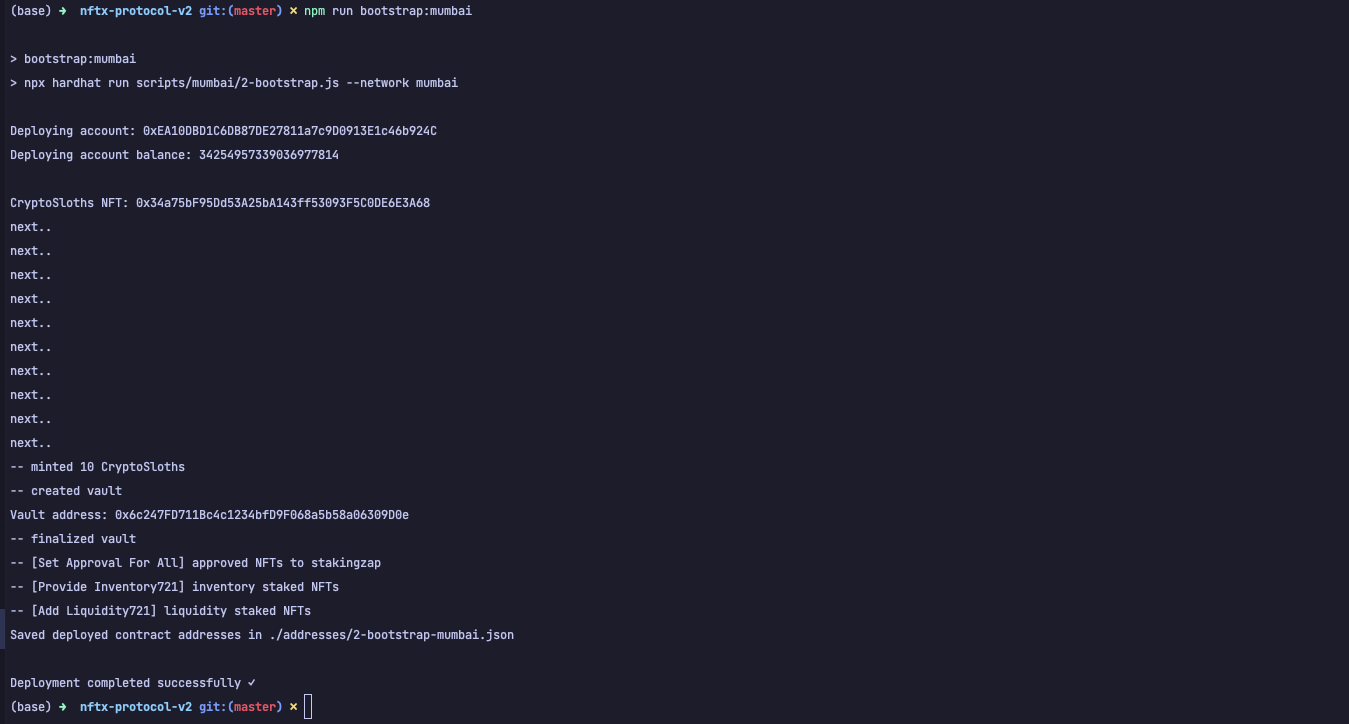
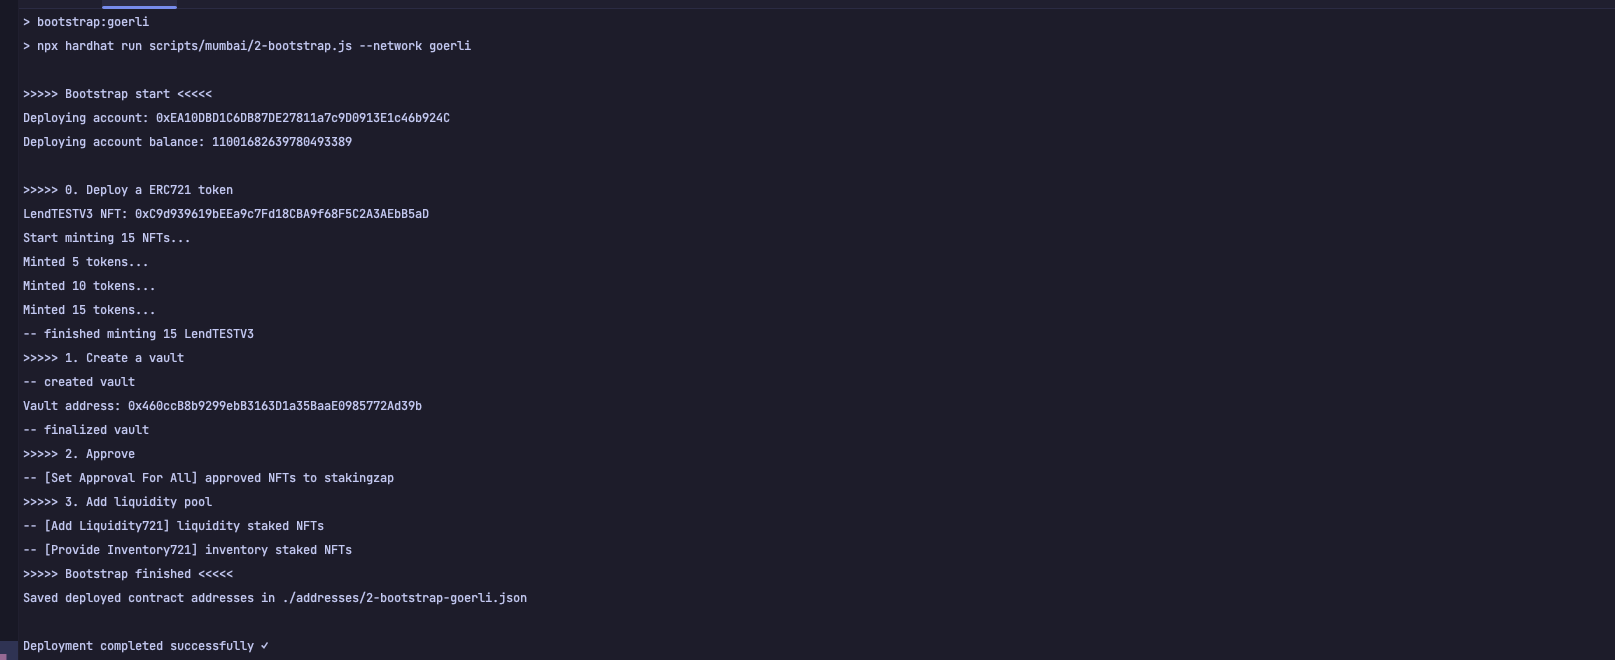
feat(project): restructure the project folders

Changed region(s): [[0.0, 0.2727, 0.3736, 1.0], [0.0, 0.0, 0.3736, 0.2424]]

diff --git a/scripts/bigto/2-bootstrap.js b/scripts/bigto/2-bootstrap.js
@@ -1,12 +1,12 @@
 'use strict'
 
-const { BigNumber } = require("@ethersproject/bignumber");
+const fs = require('fs')
+const keccak256 = require('keccak256')
 const { ethers, upgrades } = require("hardhat");
 const { utils } = ethers;
 const { formatEther, parseEther } = utils;
 
 const config = require("./config")
-const fs = require('fs')
 
 const NFTXVaultFactoryUpgradeableAddress = config.NFTXVaultFactoryUpgradeableAddress
 const NFTXStakingZapAddress = config.NFTXStakingZapAddress
@@ -14,40 +14,53 @@ const NFTXStakingZapAddress = config.NFTXStakingZapAddress
 const deployedContractMap = {}
 
 async function main() {
+  console.log(">>>>> Bootstrap start <<<<<")
   const [deployer] = await ethers.getSigners();
 
   const myAddress = await deployer.getAddress();
+  const network = ethers.getDefaultProvider.networks
 
   console.log("Deploying account:", myAddress);
   console.log("Deploying account balance:", (await deployer.getBalance()).toString(), "\n");
 
-  const vaultFactory = await ethers.getContractAt(
-    "NFTXVaultFactoryUpgradeable",
-      NFTXVaultFactoryUpgradeableAddress
-  );
-  const stakingZap = await ethers.getContractAt(
-      "NFTXStakingZap",
-      NFTXStakingZapAddress
-  );
+  // console.log(">>>>> (Optional) Swap some WETH")
+  // const depositMethodId = `0x${keccak256("deposit()").toString("hex").substring(0,8)}`
+  // const swapTx = await deployer.sendTransaction({
+  //   from: myAddress,
+  //   to: config.wethAddress,
+  //   value: parseEther(`${config.swapAmount}`),
+  //   data: depositMethodId
+  // })
+  // await swapTx.wait()
 
+  console.log(">>>>> 0. Deploy a ERC721 token")
   const Erc721 = await ethers.getContractFactory("ERC721");
-  const nft = await Erc721.deploy("CryptoSloths", "CS");
+  const nft = await Erc721.deploy(config.NFTName, config.NFTSymbol);
   await nft.deployed();
-  console.log("CryptoSloths NFT:", nft.address);
-  deployedContractMap["CryptoSloths NFT"] = nft.address
+  console.log(`${config.NFTName} NFT: ${nft.address}`);
+  deployedContractMap[config.NFTName] = nft.address
 
-  const numMints = 10;
+  const numMints = 15;
+  console.log(`Start minting ${numMints} NFTs...`)
   for (let tokenId = 0; tokenId < numMints; tokenId++) {
     const mintTx = await nft.publicMint(myAddress, tokenId, { gasLimit: 100000 });
-    console.log("next..");
+    if ((tokenId + 1) % 5 === 0) {
+      console.log(`Minted ${tokenId + 1} tokens...`)
+    }
     if (tokenId === numMints - 1) {
-      mintTx.wait()
+      await mintTx.wait()
     }
   }
-  console.log("-- minted " + numMints + " CryptoSloths");
+  console.log(`-- finished minting ${numMints} ${config.NFTName}`);
 
-  const createVaultTx = await vaultFactory.createVault("CryptoSloths", "SLOTH", nft.address, false, true);
-  createVaultTx.wait()
+  console.log(">>>>> 1. Create a vault")
+  const vaultFactory = await ethers.getContractAt(
+      "NFTXVaultFactoryUpgradeable",
+      NFTXVaultFactoryUpgradeableAddress
+  );
+
+  const createVaultTx = await vaultFactory.createVault(config.NFTName, `${config.NFTSymbol}`, nft.address, false, true);
+  await createVaultTx.wait()
   console.log("-- created vault");
 
   const numVaults = await vaultFactory.numVaults();
@@ -62,22 +75,29 @@ async function main() {
   await vault.finalizeVault();
   console.log("-- finalized vault");
 
+  console.log(">>>>> 2. Approve")
+  const stakingZap = await ethers.getContractAt(
+      "NFTXStakingZap",
+      NFTXStakingZapAddress
+  );
   const setApprovalTx = await nft.setApprovalForAll(stakingZap.address, true);
-  setApprovalTx.wait()
+  await setApprovalTx.wait()
   console.log("-- [Set Approval For All] approved NFTs to stakingzap");
 
-  const provideInventoryTx = await stakingZap.provideInventory721(vaultId, [0, 1], { gasLimit: "1000000" });
-  provideInventoryTx.wait()
+  console.log(">>>>> 3. Add liquidity pool")
+  const provideInventoryTx = await stakingZap.provideInventory721(vaultId, [10, 11], { gasLimit: 1000000 });
+  await provideInventoryTx.wait()
   console.log("-- [Provide Inventory721] inventory staked NFTs");
 
-  const addLiquidityTx = await stakingZap.addLiquidity721ETH(vaultId, [2, 3, 4, 5, 6, 7], 0, {
-    value: parseEther("0.18"),
+  const addLiquidityTx = await stakingZap.addLiquidity721ETH(vaultId, [0, 1, 2, 3, 4, 5, 6, 7, 8, 9], 10000000000, {
+    value: parseEther("0.00000005"),
     gasLimit: "1000000",
   });
-  addLiquidityTx.wait()
+  await addLiquidityTx.wait()
   console.log("-- [Add Liquidity721] liquidity staked NFTs");
 
-  const deployedContractAddressesFilePath = "./addresses/2-bootstrap-mumbai.json"
+  console.log(">>>>> Bootstrap finished <<<<<")
+  const deployedContractAddressesFilePath = `./addresses/2-bootstrap-${network.name}.json`
   fs.writeFileSync(
       deployedContractAddressesFilePath,
       JSON.stringify(deployedContractMap, null, 2)

diff --git a/scripts/bigto/deployDummyNFT.js b/scripts/bigto/deployDummyNFT.js
@@ -1,0 +1,39 @@
+'use strict'
+
+const { ethers } = require('hardhat')
+
+const config = require("./config")
+
+async function main() {
+    const [deployer] = await ethers.getSigners();
+
+    const myAddress = await deployer.getAddress();
+    console.log("Start deploying...")
+
+    const Erc721 = await ethers.getContractFactory("ERC721");
+    const nft = await Erc721.deploy(config.NFTName, config.NFTSymbol);
+    console.log("Waiting deploy...")
+    await nft.deployed();
+    console.log("CryptoSloths NFT:", nft.address);
+
+    const numMints = 15;
+    for (let tokenId = 0; tokenId < numMints; tokenId++) {
+        const mintTx = await nft.publicMint(myAddress, tokenId, { gasLimit: 100000 });
+        console.log("next..");
+        if (tokenId === numMints - 1) {
+            mintTx.wait()
+        }
+    }
+    console.log("-- minted " + numMints + " CryptoSloths");
+}
+
+main()
+    .then(() => {
+        console.log("\nDeployment completed successfully ✓");
+        process.exit(0);
+    })
+    .catch((error) => {
+        console.log("\nDeployment failed ✗");
+        console.error(error);
+        process.exit(1);
+    });

diff --git a/hardhat.config.js b/hardhat.config.js
@@ -1,9 +1,9 @@
 require("dotenv").config();
-require("@nomiclabs/hardhat-waffle");
-require("@openzeppelin/hardhat-upgrades");
-require("hardhat-gas-reporter");
-require("@nomiclabs/hardhat-etherscan");
 require("hardhat-docgen");
+require("hardhat-gas-reporter");
+require("@nomiclabs/hardhat-waffle");
+require("@nomiclabs/hardhat-etherscan");
+require("@openzeppelin/hardhat-upgrades");
 
 const { ALCHEMY_API_KEY, DEV_PRIVATE_KEY, ETHERSCAN_API_KEY } = process.env
 
@@ -15,7 +15,6 @@ module.exports = {
     goerli: {
       url: `https://eth-goerli.g.alchemy.com/v2/${ALCHEMY_API_KEY}`,
       accounts: [`0x${DEV_PRIVATE_KEY}`],
-      gasPrice: 2500000000,
     },
     mainnet: {
       url: `https://eth-mainnet.g.alchemy.com/v2/${ALCHEMY_API_KEY}`,

diff --git a/scripts/bigto/1-deploy.js b/scripts/bigto/1-deploy.js
@@ -213,7 +213,7 @@ async function main() {
   await unstakingZap.setInventoryStaking(inventoryStaking.address);
   console.log("-- set inventory staking on unstakingzap");
 
-  const deployedContractAddressesFilePath = "./addresses/1-deploy-mumbai.json"
+  const deployedContractAddressesFilePath = `./addresses/1-deploy-${config.deployChain}.json`
   fs.writeFileSync(
       deployedContractAddressesFilePath,
       JSON.stringify(deployedContractMap, null, 2)
